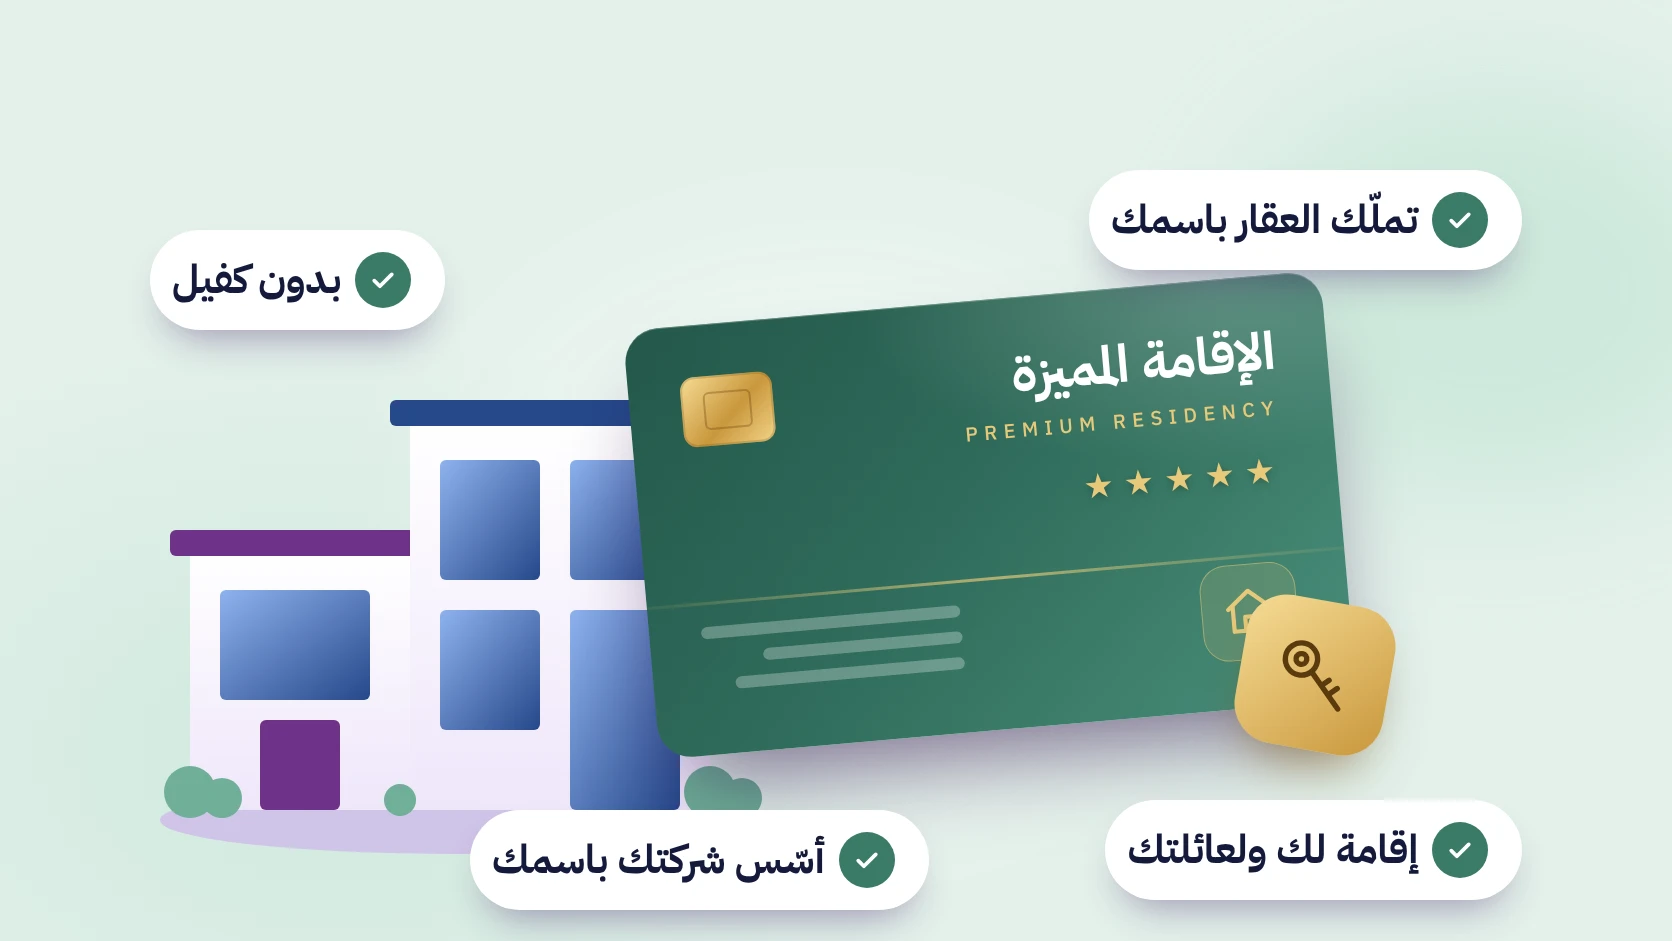
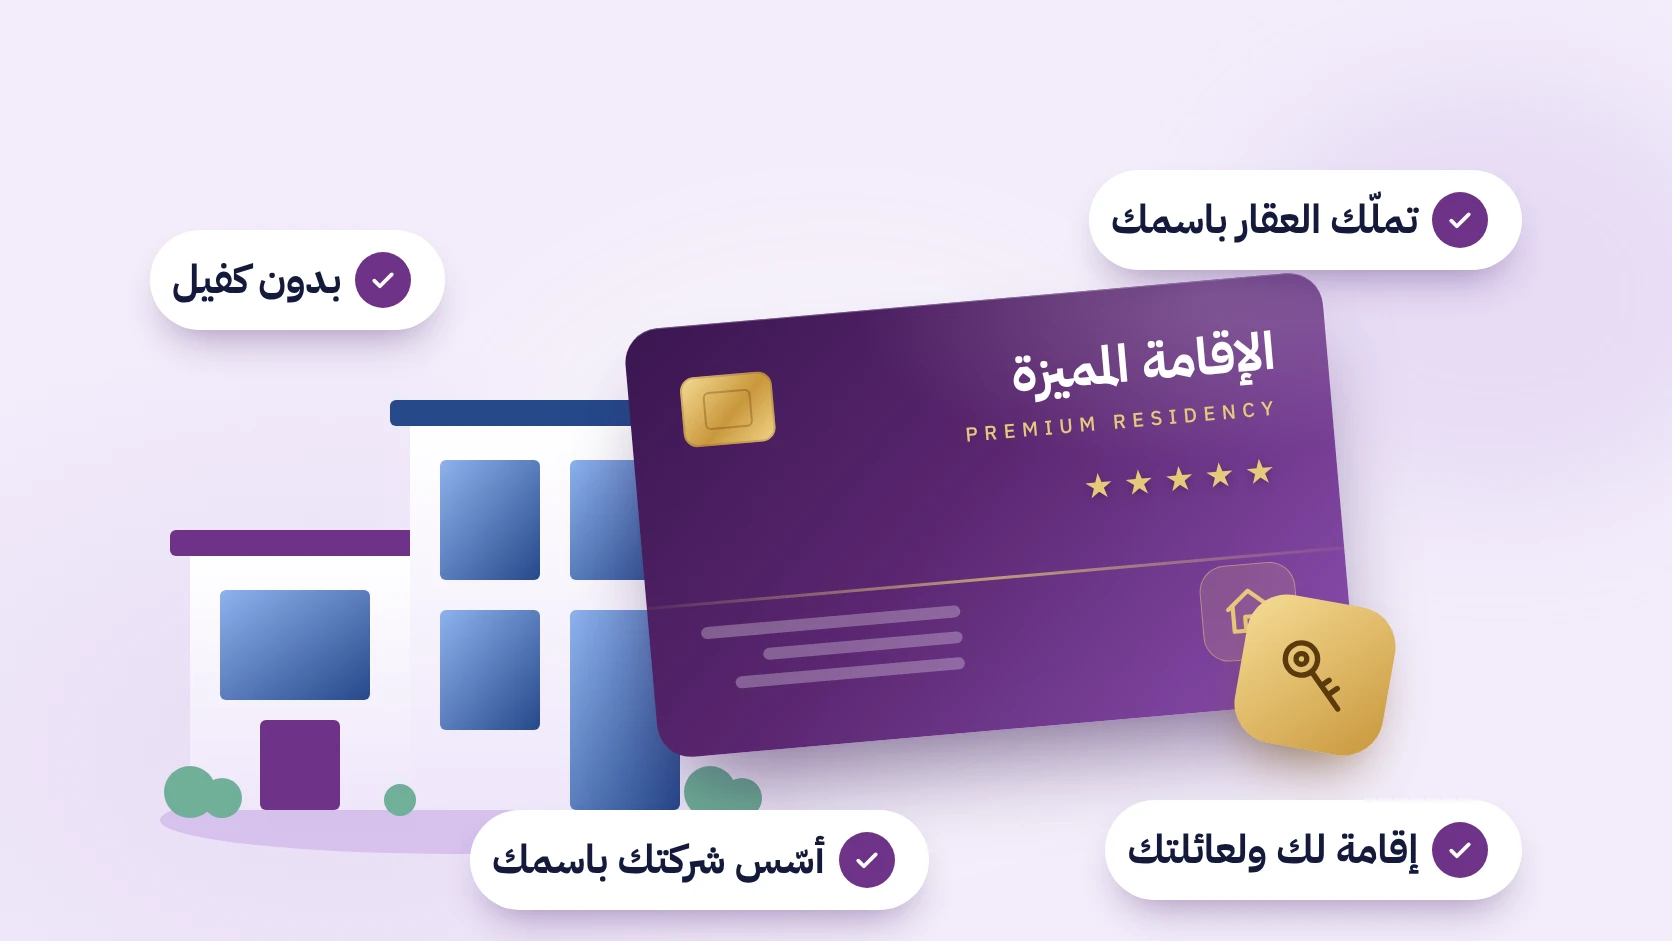
PR: purple brand palette instead of green; PR form defaults to +90; SA pages keep +966
Claude-Session: https://claude.ai/code/session_01NBvG3p8pHLfApGAyQMSkQa

diff --git a/pr/index.html b/pr/index.html
@@ -747,6 +747,10 @@ body.bar-on .wa-float{opacity:1;visibility:visible;transform:none}
 .cc-list .none{color:var(--muted);cursor:default;justify-content:center}
 .form-card .phone-row .cc-pick .cc-btn{width:auto;min-width:112px;padding:0 30px 0 12px;font-size:15px}
 
+.ftr .ftr-disc{max-width:none;margin:36px 0 0;padding:20px 0 0;border-top:1px solid rgba(255,255,255,.12);font-size:14px;line-height:1.9;color:rgba(255,255,255,.82)}
+.ftr-disc + .ftr-bottom{margin-top:20px}
+@media (max-width:720px){.ftr .ftr-disc{font-size:13px;text-align:center;margin-top:28px}}
+
 .hero-label{display:inline-block;background:rgba(255,255,255,.16);border:1px solid rgba(255,255,255,.4);-webkit-backdrop-filter:blur(6px);backdrop-filter:blur(6px);color:#fff;font-size:14px;font-weight:600;line-height:1.5;padding:7px 16px;border-radius:999px;margin-bottom:16px}
 @media (max-width:720px){.hero-label{order:1;align-self:center;font-size:12.5px;padding:6px 12px;margin-bottom:10px;text-align:center}}
 .hero h1 .hero-hl{font-style:normal;color:#fff;margin-top:10px;text-shadow:none;padding:.04em .45em .16em}
@@ -784,34 +788,26 @@ body.bar-on .wa-float{opacity:1;visibility:visible;transform:none}
 @media (max-width:1000px){.pr-grid{grid-template-columns:repeat(2,minmax(0,1fr))}}
 @media (max-width:720px){.pr-grid{grid-template-columns:minmax(0,1fr);gap:12px}}
 /* PR package */
-.pk{margin-top:40px;display:grid;grid-template-columns:minmax(0,1.15fr) minmax(0,.85fr);border-radius:28px;overflow:hidden;background:linear-gradient(150deg,#24584A 0%,#2F6B5A 50%,#3D8270 100%);color:#fff;box-shadow:0 40px 80px -44px rgba(36,88,74,.55)}
+.pk{margin-top:40px;display:grid;grid-template-columns:minmax(0,1.15fr) minmax(0,.85fr);border-radius:28px;overflow:hidden;background:linear-gradient(150deg,#3A1650 0%,#5A2670 50%,#7B3A98 100%);color:#fff;box-shadow:0 40px 80px -44px rgba(90,38,112,.6)}
 .pk-txt{padding:44px 44px 40px}
 .pk-tag{display:inline-block;font-size:13.5px;font-weight:700;background:#E7C97A;color:#3d2a05;padding:6px 14px;border-radius:999px}
 .pk h3{font-size:32px;line-height:1.35;margin:18px 0 10px;color:#fff}
 .pk h3 span{display:block;color:#E7C97A}
-.pk-txt>p{color:rgba(255,255,255,.82);font-size:16px;line-height:1.8;margin:0 0 22px;max-width:520px}
+.pk-txt>p{color:rgba(255,255,255,.9);font-size:17px;line-height:1.85;margin:0 0 22px;max-width:520px}
 .pk ul{list-style:none;margin:0;padding:0;display:grid;grid-template-columns:repeat(2,minmax(0,1fr));gap:14px 22px}
-.pk li{display:flex;align-items:center;gap:10px;font-size:15.5px;font-weight:600;line-height:1.5}
-.pk-mk{flex:none;width:26px;height:26px;border-radius:50%;background:#E7C97A;color:#2F6B5A;display:grid;place-items:center}
+.pk li{display:flex;align-items:center;gap:10px;font-size:16.5px;font-weight:600;line-height:1.5}
+.pk-mk{flex:none;width:26px;height:26px;border-radius:50%;background:#E7C97A;color:#5A2670;display:grid;place-items:center}
 .pk-mk .ic{width:14px;height:14px}
 .pk-cta{margin-top:30px;display:flex;align-items:center;gap:18px;flex-wrap:wrap}
 .pk-note{font-size:14px;color:rgba(255,255,255,.75)}
-.pk-media{position:relative;background:#E3F1EA}
-.pk-media{display:flex;align-items:center;justify-content:center;background:linear-gradient(160deg,#EEF7F2,#DCEFE5)}
+.pk-media{position:relative}
+.pk-media{display:flex;align-items:center;justify-content:center;background:#F3ECFA}
 .pk-media img{width:100%;height:auto;display:block}
 .why .why-foot{display:none}
 @media (max-width:900px){.pk{grid-template-columns:minmax(0,1fr)}.pk-media{order:-1;aspect-ratio:1672/941}.pk-txt{padding:28px 22px 30px}.pk h3{font-size:25px}.pk ul{grid-template-columns:minmax(0,1fr)}}
-/* PR green identity */
-.hl{background:linear-gradient(135deg,#4A8F7B 0%,#2F6B5A 100%)!important;box-shadow:0 12px 26px -14px rgba(47,107,90,.5)!important}
-.eyebrow{color:#3A7A67}
-.pr-ic{background:#E3F3EC!important;color:#3A7A67!important}
-.cmp-h .cmp-p{background:#3A7A67!important;color:#fff!important}
-.cmp-p{color:#2F6B5A!important;background:rgba(227,243,236,.6)!important}
-.cmp-p .mk{background:#3A7A67!important}
-
-.ftr .ftr-disc{max-width:none;margin:36px 0 0;padding:20px 0 0;border-top:1px solid rgba(255,255,255,.12);font-size:14px;line-height:1.9;color:rgba(255,255,255,.82)}
-.ftr-disc + .ftr-bottom{margin-top:20px}
-@media (max-width:720px){.ftr .ftr-disc{font-size:13px;text-align:center;margin-top:28px}}
+/* PR purple package */
+.pk .btn-cta{background:#fff;color:#5A2670;box-shadow:0 14px 30px -14px rgba(0,0,0,.45)}
+.pk .btn-cta .ic{color:#5A2670}
 </style>
 <script type="application/ld+json">{"@context": "https://schema.org", "@type": "FAQPage", "mainEntity": [{"@type": "Question", "name": "ما هي الإقامة المميزة في السعودية؟", "acceptedAnswer": {"@type": "Answer", "text": "نظام إقامة يكون فيه مركز الإقامة المميزة هو المرجع بدلًا من كفيل فرد أو شركة، ويمنحك مزايا مثل الإعفاء من المقابل المالي للمرافقين، والسفر دون تأشيرة خروج وعودة، وحق تملّك العقار، والسماح لأفراد أسرتك بالعمل."}}, {"@type": "Question", "name": "هل يجب أن أكون مستثمرًا للحصول على الإقامة المميزة؟", "acceptedAnswer": {"@type": "Answer", "text": "لا. أغلب عملائنا يحصلون عليها عبر الاستثمار وتأسيس شركاتهم، لكن هناك مسارات أخرى مثل الكفاءات الاستثنائية، ومسارات لا تتطلب استثمارًا. نقيّم ملفك ونحدد المسار الأنسب لك."}}, {"@type": "Question", "name": "ما الفرق بينها وبين الإقامة العادية؟", "acceptedAnswer": {"@type": "Answer", "text": "في الإقامة العادية تحتاج إلى كفيل، وتدفع المقابل المالي عن مرافقيك، وتحتاج إلى تأشيرة خروج وعودة بمدة محددة، ولا يُسمح لأفراد أسرتك بالعمل. أما الإقامة المميزة فتعفيك من كل ذلك، وتمنحك حرية تغيير العمل وتملّك العقار وممارسة أعمالك."}}, {"@type": "Question", "name": "هل يمكنني تملّك العقار بالإقامة المميزة؟", "acceptedAnswer": {"@type": "Answer", "text": "نعم. من أهم مزايا الإقامة المميزة حق تملّك العقار والانتفاع به في المملكة باسمك، وفق الأنظمة والمناطق المسموح بها."}}, {"@type": "Question", "name": "كيف أحصل على الإقامة المميزة عن طريق تأسيس شركة؟", "acceptedAnswer": {"@type": "Answer", "text": "تستثمر وتؤسس شركتك في المملكة بملكية أجنبية 100%، ومع تحقيق شروط مسار المستثمر تصبح مؤهلًا للإقامة المميزة لك ولعائلتك. نرافقك من دراسة الاستثمار وتأسيس الشركة حتى صدور الإقامة."}}, {"@type": "Question", "name": "ما شروط الإقامة المميزة عن طريق الاستثمار؟", "acceptedAnswer": {"@type": "Answer", "text": "من أبرزها: استثمار فعلي في شركتك داخل المملكة وفق الحد الأدنى للمسار، وتوفير وظائف خلال أول سنتين من التشغيل، وإثبات الملاءة المالية، وجواز سفر ساري. يوضح لك مستشارك التفاصيل حسب حالتك."}}, {"@type": "Question", "name": "هل يمكنني تأسيس شركة بالإقامة المميزة؟", "acceptedAnswer": {"@type": "Answer", "text": "نعم. تمنحك الإقامة المميزة حق ممارسة الأعمال والاستثمار في المملكة وفق نظام الاستثمار، دون كفيل. ونساعدك في تأسيس شركتك بعد حصولك على الإقامة."}}, {"@type": "Question", "name": "كم رسوم الإقامة المميزة؟", "acceptedAnswer": {"@type": "Answer", "text": "تختلف الرسوم حسب المسار وحجم الاستثمار، ويوضحها لك مستشارك بعد تقييم حالتك."}}, {"@type": "Question", "name": "هل تشمل الإقامة أفراد عائلتي؟", "acceptedAnswer": {"@type": "Answer", "text": "نعم. تشمل الزوج/الزوجة والأبناء دون 25 عامًا والوالدين، وفق الشروط المعمول بها."}}, {"@type": "Question", "name": "هل يمكنني البدء وأنا خارج السعودية؟", "acceptedAnswer": {"@type": "Answer", "text": "نعم. نقيّم أهليتك عن بُعد من أي دولة، ونوضح لك المسار والمستندات المطلوبة قبل أي التزام."}}, {"@type": "Question", "name": "هل الموافقة مضمونة؟", "acceptedAnswer": {"@type": "Answer", "text": "قرار الموافقة لدى مركز الإقامة المميزة. دورنا أن نقيّم أهليتك بدقة، ونجهز ملفًا مكتملًا، ونتابعه حتى صدور القرار."}}]}</script>
 </head>
@@ -909,8 +905,8 @@ height="0" width="0" style="display:none;visibility:hidden"></iframe></noscript>
           <div class="field"><label for="h-name">الاسم الكامل<b>*</b></label><input class="inp" id="h-name" name="name" type="text" autocomplete="name" placeholder="اكتب اسمك الكامل" data-v required><span class="err-msg" role="alert"></span></div>
           <div class="field"><label for="h-phone">رقم الهاتف / واتساب<b>*</b></label>
             <div class="phone-row">
-              <div class="cc-pick"><button type="button" class="inp cc-btn" aria-haspopup="listbox" aria-expanded="false" aria-label="رمز الدولة"><i class="flag" aria-hidden="true"></i><span class="cc-code">+966</span></button><input type="hidden" name="cc" value="+966"><input type="hidden" name="country" value="SA"></div>
-              <input class="inp num" id="h-phone" name="phone" type="tel" inputmode="tel" autocomplete="tel-national" placeholder="5X XXX XXXX" data-v required>
+              <div class="cc-pick"><button type="button" class="inp cc-btn" aria-haspopup="listbox" aria-expanded="false" aria-label="رمز الدولة"><i class="flag" aria-hidden="true"></i><span class="cc-code">+90</span></button><input type="hidden" name="cc" value="+90"><input type="hidden" name="country" value="TR"></div>
+              <input class="inp num" id="h-phone" name="phone" type="tel" inputmode="tel" autocomplete="tel-national" placeholder="5XX XXX XX XX" data-v required>
             </div><span class="err-msg" role="alert"></span></div>
           <div class="field"><label for="h-email">البريد الإلكتروني<b>*</b></label><input class="inp email" id="h-email" name="email" type="email" inputmode="email" autocomplete="email" placeholder="example@email.com" data-v required><span class="err-msg" role="alert"></span></div>
           <div class="field"><label for="h-biz">مسار الإقامة الذي يهمك</label><input class="inp" id="h-biz" name="business" type="text" placeholder="استثمار، كفاءات، دون استثمار…"></div>
@@ -1285,8 +1281,8 @@ height="0" width="0" style="display:none;visibility:hidden"></iframe></noscript>
           <div class="field"><label for="f-name">الاسم الكامل<b>*</b></label><input class="inp" id="f-name" name="name" type="text" autocomplete="name" placeholder="اكتب اسمك الكامل" data-v required><span class="err-msg" role="alert"></span></div>
           <div class="field"><label for="f-phone">رقم الهاتف / واتساب<b>*</b></label>
             <div class="phone-row">
-              <div class="cc-pick"><button type="button" class="inp cc-btn" aria-haspopup="listbox" aria-expanded="false" aria-label="رمز الدولة"><i class="flag" aria-hidden="true"></i><span class="cc-code">+966</span></button><input type="hidden" name="cc" value="+966"><input type="hidden" name="country" value="SA"></div>
-              <input class="inp num" id="f-phone" name="phone" type="tel" inputmode="tel" autocomplete="tel-national" placeholder="5X XXX XXXX" data-v required>
+              <div class="cc-pick"><button type="button" class="inp cc-btn" aria-haspopup="listbox" aria-expanded="false" aria-label="رمز الدولة"><i class="flag" aria-hidden="true"></i><span class="cc-code">+90</span></button><input type="hidden" name="cc" value="+90"><input type="hidden" name="country" value="TR"></div>
+              <input class="inp num" id="f-phone" name="phone" type="tel" inputmode="tel" autocomplete="tel-national" placeholder="5XX XXX XX XX" data-v required>
             </div><span class="err-msg" role="alert"></span></div>
           <div class="field"><label for="f-email">البريد الإلكتروني<b>*</b></label><input class="inp email" id="f-email" name="email" type="email" inputmode="email" autocomplete="email" placeholder="example@email.com" data-v required><span class="err-msg" role="alert"></span></div>
           <div class="field"><label for="f-biz">مسار الإقامة الذي يهمك</label><input class="inp" id="f-biz" name="business" type="text" placeholder="استثمار، كفاءات، دون استثمار…"></div>
@@ -1641,7 +1637,7 @@ function LoopSlider(view, track, o){
     if(TZ[z]) return TZ[z];
     var ls = navigator.languages || [navigator.language || ''];
     for(var i=0;i<ls.length;i++){ var m = /[-_]([A-Za-z]{2})$/.exec(ls[i]||''); if(m && idx[m[1].toUpperCase()] !== undefined) return m[1].toUpperCase(); }
-    return 'SA';
+    return 'TR';
   }
   var auto = detect(); window.__ccDetected = auto;
   $$('.cc-pick').forEach(function(pk){

diff --git a/sa/tr/index.html b/sa/tr/index.html
@@ -1315,7 +1315,7 @@ height="0" width="0" style="display:none;visibility:hidden"></iframe></noscript>
       <div>
         <h4>İletişim</h4>
         <ul>
-          <li><a href="tel:+905541238888"><span class="ltr">+90 554 123 8888</span></a></li>
+          <li><a href="tel:+966545909919"><span class="ltr">+966 54 590 9919</span></a></li>
         </ul>
       </div>
     </div>
@@ -1331,9 +1331,9 @@ height="0" width="0" style="display:none;visibility:hidden"></iframe></noscript>
   <a class="btn btn-primary" href="#contact">Ücretsiz danışmanlık alın</a>
 </div>
 
-<a class="wa-float js-wa" href="#" aria-label="WhatsApp'tan bize ulaşın: +90 554 123 8888">
+<a class="wa-float js-wa" href="#" aria-label="WhatsApp'tan bize ulaşın: +966 54 590 9919">
   <svg viewBox="0 0 24 24" aria-hidden="true"><use href="#i-wa"/></svg>
-  <span class="wa-tip">WhatsApp'tan bize ulaşın<b class="ltr">+90 554 123 8888</b></span>
+  <span class="wa-tip">WhatsApp'tan bize ulaşın<b class="ltr">+966 54 590 9919</b></span>
 </a>
 
 <div class="modal" id="modal" role="dialog" aria-modal="true" aria-label="Müşteri deneyimi videosu">
@@ -1352,7 +1352,7 @@ height="0" width="0" style="display:none;visibility:hidden"></iframe></noscript>
 /* ---------- CONFIG: replace placeholders when assets are ready ---------- */
 var LEADS_ENDPOINT = 'https://script.google.com/macros/s/AKfycbwROWc4HfHrB_OxDFtn_8wrM0WMG7iChvZYPrDf6TCU2RqpEyhBrI-kBLpSsyRNsktUCg/exec'; // Google Apps Script Web App URL (Google Sheet)
 var THANK_YOU_URL = 'thank-you.html'; // مسار صفحة الشكر بعد إرسال الفورم
-var WHATSAPP_NUMBER = '905541238888'; // +90 554 123 8888
+var WHATSAPP_NUMBER = '966545909919'; // +966 54 590 9919
 
 var $ = function(s,c){return (c||document).querySelector(s)};
 var $$ = function(s,c){return Array.prototype.slice.call((c||document).querySelectorAll(s))};

diff --git a/sa/tr/thank-you.html b/sa/tr/thank-you.html
@@ -71,7 +71,7 @@ height="0" width="0" style="display:none;visibility:hidden"></iframe></noscript>
 </main>
 <footer>© 2026 Business Harbor. Tüm hakları saklıdır.</footer>
 <script>
-var WHATSAPP_NUMBER = '905541238888'; // +90 554 123 8888
+var WHATSAPP_NUMBER = '966545909919'; // +966 54 590 9919
 window.dataLayer = window.dataLayer || []; window.dataLayer.push({event:'thank_you_view'});
 document.getElementById('waBtn').addEventListener('click', function(){ window.dataLayer.push({event:'whatsapp_click', click_location:'thank_you'}); });
 document.getElementById('waBtn').href = 'https://wa.me/' + WHATSAPP_NUMBER + '?text=' + encodeURIComponent('Merhaba, Suudi Arabistan\'da şirket kurulumu için ücretsiz danışmanlık talebi gönderdim.');

diff --git a/sa/tr/privacy.html b/sa/tr/privacy.html
@@ -80,7 +80,7 @@ height="0" width="0" style="display:none;visibility:hidden"></iframe></noscript>
 <h2><b>7</b>Bu politikadaki değişiklikler</h2>
 <p>Bu politikayı zaman zaman güncelleyebiliriz; son güncelleme tarihi bu sayfanın üst kısmında yer alır.</p>
 
-<div class="contact"><strong>Gizlilik ile ilgili iletişim:</strong><br>WhatsApp / telefon: <a class="ltr" href="https://wa.me/905541238888">+90 554 123 8888</a></div>
+<div class="contact"><strong>Gizlilik ile ilgili iletişim:</strong><br>WhatsApp / telefon: <a class="ltr" href="https://wa.me/966545909919">+966 54 590 9919</a></div>
 </article>
 </main>
 <footer>© 2026 Business Harbor. Tüm hakları saklıdır.</footer>
